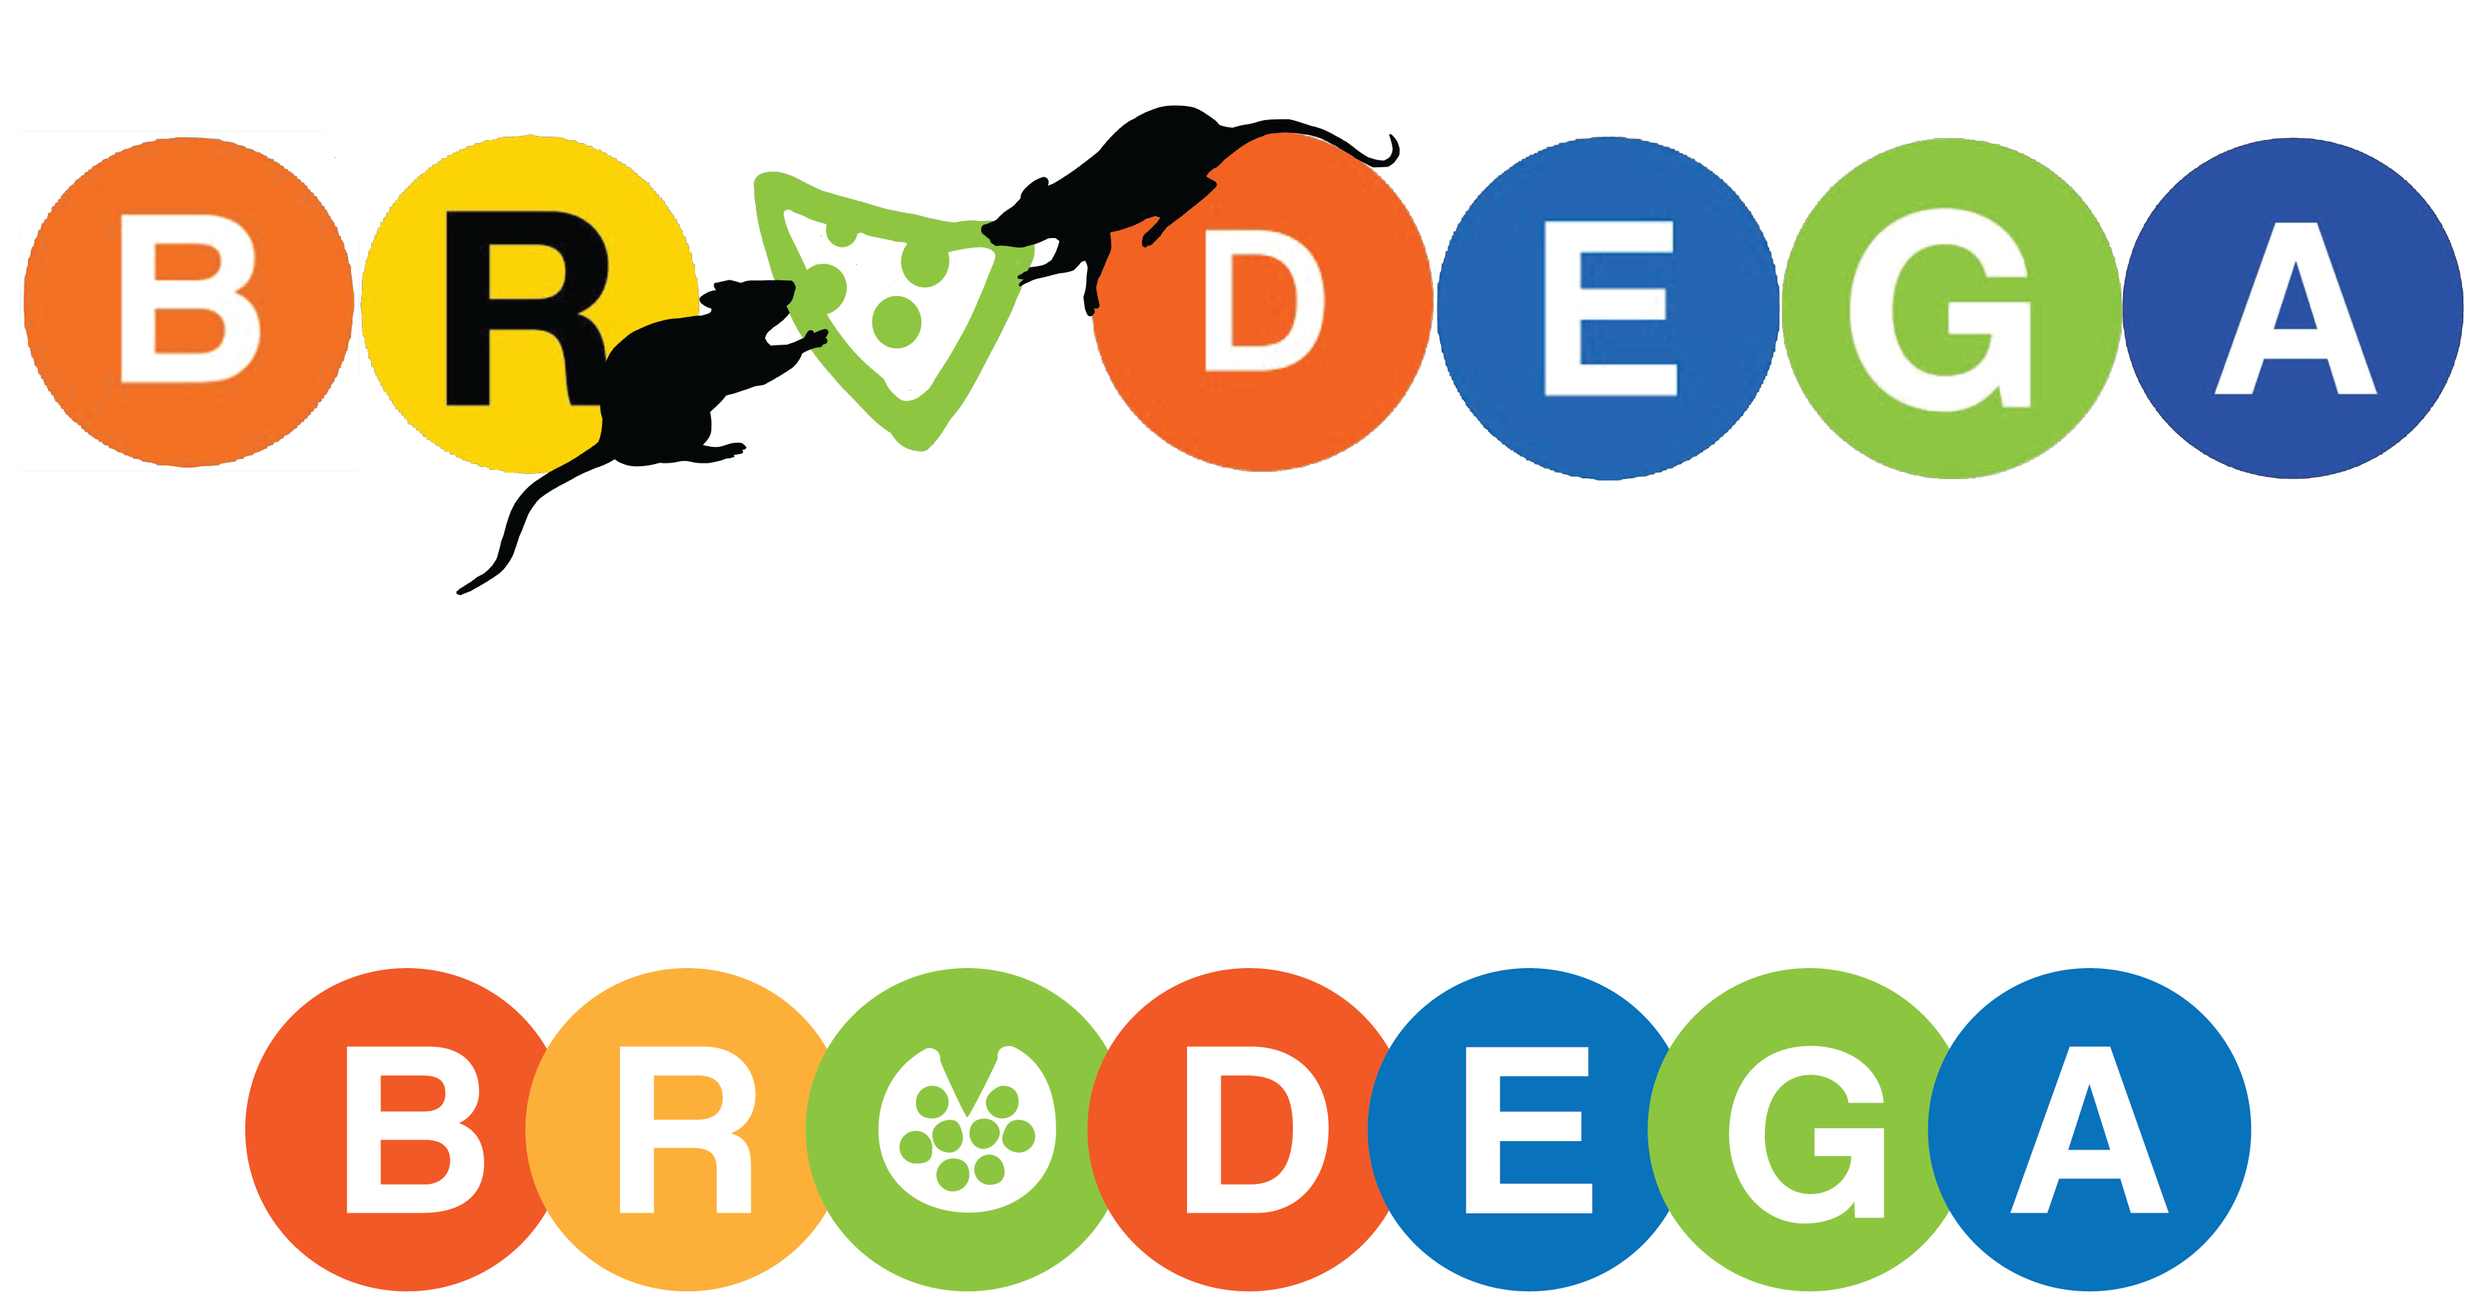
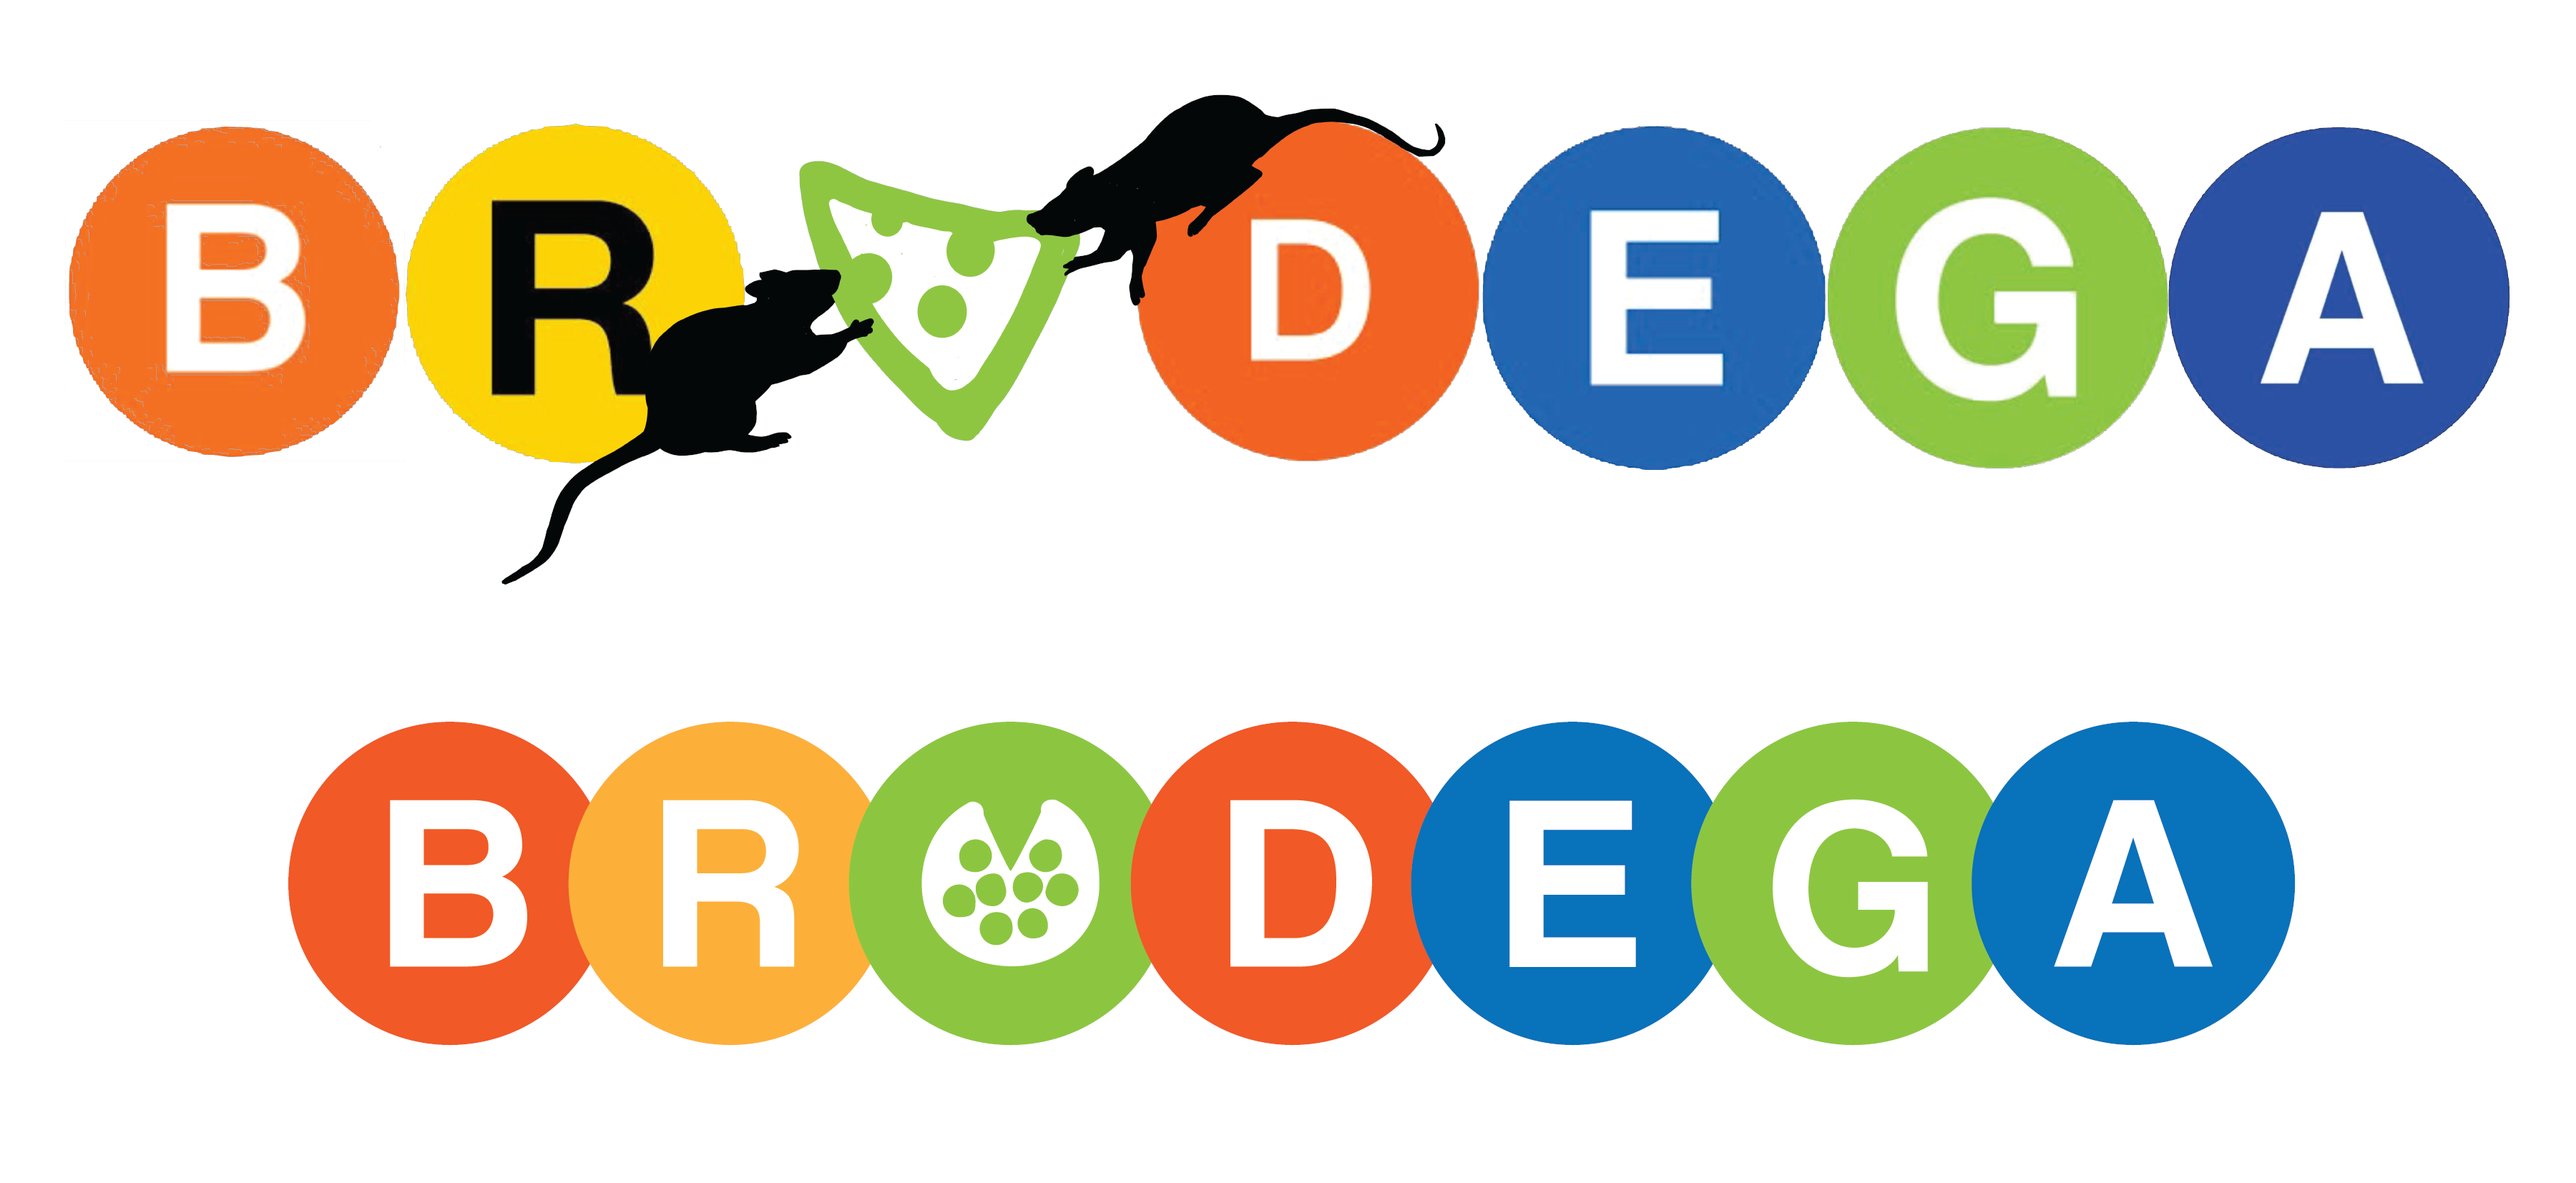
adds images and edits some images to the digital art page

diff --git a/_projects/Art-Direction-at-Gather.md b/_projects/Art-Direction-at-Gather.md
@@ -10,21 +10,19 @@ status: publish
 ---
 
 
-!["gather ad asset"](/assets/gather/previewimage.png) 
+!["gather ad asset"](/assets/gather/previewimage.png)
 
-In 2020, many creative theatrical productions moved online out due to necessity from the COVID-19 lockdowns. Some creatives made use of Zoom, and others shared smaller platorms that allowed some interesting creative liberties. Gather became a popular choice among friends of mine in the Immersive Theatre crowd. I was invited to Terrence LeClere's birthday party on "Gather.town". This was a lot of fun-- it's a small retro-rpg aesthetic proximity chat platform that ran in-browser.
+Gather is retro-RPG aesthetic proximity chat platform that runs in-browser.
+
+In 2020, many creative theatrical productions moved online out due to necessity from the COVID-19 lockdowns. Some creatives made use of Zoom, but others used smaller platorms that allowed for interesting creative liberties. Gather became a popular choice among friends of mine in the Immersive Theatre crowd. I was invited to Terrence LeClere's birthday party in Gather; it was a lot of fun!
 
 !["gather in 2020-1"](/assets/gather/all-hands.png)
+*An example of a map in Gather*
 
-!["gather in 2020-2"](/assets/gather/tallcharactersprites-nogrid.png)
+!["gather in 2020-3"](/assets/gather/avatars.png){: width="50%"}
+*Four Gather avatars*
 
-!["gather in 2020-3"](/assets/gather/avatars.png)
-
- The Pokemon inpired avatars couldn't be changed, but the background image for any 2D video chat could be anything. I made a few spaces, made some money using the platform creating themed event spaces for other users, and eventually found myself meeting the CEO, Phillip Wang, in a virtual coffee shop I had made and put the link out about on Twitter. 
-
-!["gather cafe"](/assets/gather/Gather.Cafe.JadenAndrea.png)
-
-I kept the space open on my laptop while I was in my room, using it as if I were working from a coffee shop during the pandemic lockdown. I heard voices coming from my laptop one evening, and looked up to find Phillip serving people coffees from behind the counter, roleplaying as a barista. An article about Gather was written in WIRED magazine, and the author, Gretchen, was in the space too.
+In the early days, the avatars weren't user-editable, but the map was totally customizable. I made a few spaces, then did some contract work making maps for folks using the platform for themed event spaces.
 
 !["Alamo Drafthouse Nic Cage screening"](/assets/gather/Wickerman.png)
 
@@ -36,15 +34,20 @@ I kept the space open on my laptop while I was in my room, using it as if I were
 
 !["Camping in the Woods"](/assets/gather/ForestBackground2.png)
 
-Some other spaces I made prior to my employment at Gather, for myself and for others' online events.
+I even made a virtual coffee shop and posted the link on Twitter.
 
-!["Everything was closed for the pandemic"](/assets/gather/everything_is_closed.png)
+!["gather cafe"](/assets/gather/Gather.Cafe.JadenAndrea.png)
+*The coffee shop I posted a public link to*
+
+I kept the space open on my laptop while I was in my room, using it as if I were working from a coffee shop. I heard voices coming from my laptop one evening and looked up to find Phillip Wang, the CEO of Gather, serving people coffees from behind the counter roleplaying as a barista. A writer for WIRED magazine was also in the space, and she later wrote [an article](https://www.wired.com/story/zoom-parties-proximity-chat/) about Gather from the visit.
 
 Shortly after that evening, I applied to Gather. I showed all the spaces I had made, did an art test and a few interviews with the Art Director at the time, Mark Carpenter. Looking back and laughing, I distinctly remember thinking to myself, "This platform is amazing, but their art could really use some help. I can help!" Years later, after some great projects, the growing of the team, a few promotions, the shrinking of the team, and a pivot from the company to focus on remote work as a use case for the platform to find profitability, I found myself in the position of Art Director myself. 
 
 !["Gather Banner"](/assets/gather/GatherBanner2.png)
 
 !["Inclusivity"](/assets/gather/naturalhairlist.png)
+
+!["Everything was closed for the pandemic"](/assets/gather/everything_is_closed.png)
 
 !["NewHair"](/assets/gather/newhairnatural.gif)
 

diff --git a/_projects/Digital-Illustration.md b/_projects/Digital-Illustration.md
@@ -11,3 +11,74 @@ status: publish
 
 These are examples of various digital illustration projects I've done.
 
+## Album Art
+
+![](/assets/digitalart/VersaillesAffairAlbumArt.png)
+
+![](/assets/digitalart/AlbumArt-Versailles-2018.PNG)
+
+## Posters
+
+![](/assets/digitalart/GBCravesmallGif.gif)
+
+![](/assets/digitalart/GBposter1.png)
+
+![](/assets/digitalart/20170426_Siobhan_O_Loughlin_0344.png)
+
+![](/assets/digitalart/BrunchPoster1-2020.PNG)
+
+![](/assets/digitalart/laboheme.png)
+
+## Digital Painting
+
+![](/assets/digitalart/digitalsketchportraitstudy.png)
+
+![](/assets/digitalart/VintageStudy-2020.JPG)
+
+![](/assets/digitalart/digitalsketchmonochrome.png)
+
+## Illustration
+
+![](/assets/digitalart/digitalsketchbike.png)
+
+![](/assets/digitalart/digitalsketchcatsuit.png)
+
+![](/assets/digitalart/pixelbunny.png)
+
+![](/assets/digitalart/pixelsnail.png)
+
+![](/assets/digitalart/PixelTarot01-2018.PNG)
+
+![](/assets/digitalart/rosesthumbnail.png)
+
+![](/assets/digitalart/CyberpunkDoodle-5-1-2020.png)
+
+![](/assets/digitalart/TwitchNoc.png)
+
+![](/assets/digitalart/BeachPinup.png)
+
+![](/assets/digitalart/BookCoverVintage_2020.PNG)
+
+![](/assets/digitalart/EscapeNewHavenNewspaper.png)
+
+![](/assets/digitalart/cupcakesobviously3a.png)
+
+## Logos
+
+![](/assets/digitalart/logo_lipswettheevil4.png)
+
+![](/assets/digitalart/Brodega2.png)
+
+![](/assets/digitalart/logo_glassblowing2.png)
+
+![](/assets/digitalart/LogoToughpuppy-2017.PNG)
+
+## Magazine Covers
+
+![](/assets/digitalart/BurnBeforeReadingOct2020.PNG)
+
+![](/assets/digitalart/BurnBeforeReadingNov2020.png)
+
+![](/assets/digitalart/BurnBeforeReadingDec2020.png)
+
+![](/assets/digitalart/BBRSubmit.PNG)
